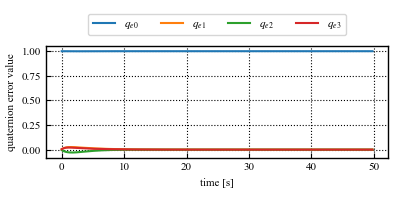
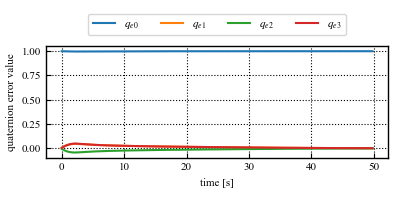
UPDATE: increase th_e from 3 to 9

diff --git a/td3/train.py b/td3/train.py
@@ -21,7 +21,7 @@ def train():
         "batch_size": 128,
         "critic_lr": 1e-3,
         "actor_lr": 1e-4,
-        "max_episodes": 10000,
+        "max_episodes": 5000,
         "max_steps": 700,
         "gamma": 0.99,
         "tau" : 1e-3,
@@ -30,7 +30,7 @@ def train():
         "policy_freq": 2,
         "noise_clip": 0.5,
         "prioritized_on": False,
-        "State": 'angle:4, ang_rate:4, ang_vel:3',}
+        "State": 'angle:4, ang_rate:4, ang_vel:3, th_e:9',}
     )
     config = wandb.config
 
@@ -103,6 +103,7 @@ def evaluate():
     q = np.empty((0,4))
     w = np.empty((0,3))
     actions = np.empty((0,3))
+    r_hist = np.empty((0,4))
     k_hist = []
     alpha_hist = []
     d_hist = np.empty((0,9))
@@ -139,7 +140,8 @@ def evaluate():
 
             dth = np.linalg.inv(D) @ Y.T @ x2
             th_e += env.dt*dth
-            env.est_th = ([th_e[0],th_e[4],th_e[8]]/np.diag(env.inertia) -1)/(env.max_multi-1)
+            # env.est_th = ([th_e[0],th_e[4],th_e[8]]/np.diag(env.inertia) -1)/(env.max_multi-1)
+            env.est_th = th_e.flatten()/25
             next_error_state, reward, done, next_state, _ = env.step(input)
             # if i == 20/dt:
             #     env.inertia = env.inertia_comb
@@ -154,6 +156,7 @@ def evaluate():
             actions = np.append(actions, input.reshape(1,-1),axis=0)
             k_hist.append(k)
             alpha_hist.append(alpha)
+            r_hist = np.append(r_hist, np.array([env.r1,env.r2,env.r3,env.r4]).reshape(1,-1),axis=0)
             d_hist = np.append(d_hist, np.array(d_tmp).reshape(1,-1),axis=0)
             state = next_error_state
 
@@ -182,32 +185,32 @@ def evaluate():
     yoko = 4.0
     #------------------------------------------------
 
-    plt.figure(figsize=(yoko,tate),dpi=100)
-    plt.plot(np.arange(max_steps)*dt, q[:,0],label =r"$q_{0}$")
-    plt.plot(np.arange(max_steps)*dt, q[:,1],label =r"$q_{1}$")
-    plt.plot(np.arange(max_steps)*dt, q[:,2],label =r"$q_{2}$")
-    plt.plot(np.arange(max_steps)*dt, q[:,3],label =r"$q_{3}$")
-    # plt.title('Quaternion')
-    plt.ylabel('quaternion value')
-    plt.xlabel(r'time [s]')
-    plt.legend(loc="lower center", bbox_to_anchor=(0.5,1.05), ncol=4)
-    plt.tight_layout()
-    plt.grid(True, color='k', linestyle='dotted', linewidth=0.8)
-    # plt.grid(True)
-    plt.savefig(curr_dir + "/results/td3_eval/plot_quat.png")
+    # plt.figure(figsize=(yoko,tate),dpi=100)
+    # plt.plot(np.arange(max_steps)*dt, q[:,0],label =r"$q_{0}$")
+    # plt.plot(np.arange(max_steps)*dt, q[:,1],label =r"$q_{1}$")
+    # plt.plot(np.arange(max_steps)*dt, q[:,2],label =r"$q_{2}$")
+    # plt.plot(np.arange(max_steps)*dt, q[:,3],label =r"$q_{3}$")
+    # # plt.title('Quaternion')
+    # plt.ylabel('quaternion value')
+    # plt.xlabel(r'time [s]')
+    # plt.legend(loc="lower center", bbox_to_anchor=(0.5,1.05), ncol=4)
+    # plt.tight_layout()
+    # plt.grid(True, color='k', linestyle='dotted', linewidth=0.8)
+    # # plt.grid(True)
+    # plt.savefig(curr_dir + "/results/td3_eval/plot_quat.png")
 
-    plt.figure(figsize=(yoko,tate),dpi=100)
-    plt.plot(np.arange(max_steps)*dt, qe[:,0],label =r"$q_{e0}$")
-    plt.plot(np.arange(max_steps)*dt, qe[:,1],label =r"$q_{e1}$")
-    plt.plot(np.arange(max_steps)*dt, qe[:,2],label =r"$q_{e2}$")
-    plt.plot(np.arange(max_steps)*dt, qe[:,3],label =r"$q_{e3}$")
-    # plt.title('Quaternion Error')
-    plt.ylabel('quaternion error value')
-    plt.xlabel(r'time [s]')
-    plt.legend(loc="lower center", bbox_to_anchor=(0.5,1.05), ncol=4)
-    plt.tight_layout()
-    plt.grid(True, color='k', linestyle='dotted', linewidth=0.8)
-    plt.savefig(curr_dir + "/results/td3_eval/plot_quate_error.png")
+    # plt.figure(figsize=(yoko,tate),dpi=100)
+    # plt.plot(np.arange(max_steps)*dt, qe[:,0],label =r"$q_{e0}$")
+    # plt.plot(np.arange(max_steps)*dt, qe[:,1],label =r"$q_{e1}$")
+    # plt.plot(np.arange(max_steps)*dt, qe[:,2],label =r"$q_{e2}$")
+    # plt.plot(np.arange(max_steps)*dt, qe[:,3],label =r"$q_{e3}$")
+    # # plt.title('Quaternion Error')
+    # plt.ylabel('quaternion error value')
+    # plt.xlabel(r'time [s]')
+    # plt.legend(loc="lower center", bbox_to_anchor=(0.5,1.05), ncol=4)
+    # plt.tight_layout()
+    # plt.grid(True, color='k', linestyle='dotted', linewidth=0.8)
+    # plt.savefig(curr_dir + "/results/td3_eval/plot_quate_error.png")
 
     plt.figure(figsize=(12,5),dpi=100)
     plt.tight_layout()
@@ -277,13 +280,13 @@ def evaluate():
     # # plt.figure(figsize=(yoko,tate),dpi=100)
     plt.subplot(236)
     plt.plot(np.arange(max_steps)*dt, d_hist[:,0],label = r"$D_{1}$")
-    plt.plot(np.arange(max_steps)*dt, d_hist[:,1],label = r"$D_{2}$")
-    plt.plot(np.arange(max_steps)*dt, d_hist[:,2],label = r"$D_{3}$")
-    plt.plot(np.arange(max_steps)*dt, d_hist[:,3],label = r"$D_{4}$")
+    # plt.plot(np.arange(max_steps)*dt, d_hist[:,1],label = r"$D_{2}$")
+    # plt.plot(np.arange(max_steps)*dt, d_hist[:,2],label = r"$D_{3}$")
+    # plt.plot(np.arange(max_steps)*dt, d_hist[:,3],label = r"$D_{4}$")
     plt.plot(np.arange(max_steps)*dt, d_hist[:,4],label = r"$D_{5}$")
-    plt.plot(np.arange(max_steps)*dt, d_hist[:,5],label = r"$D_{6}$")
-    plt.plot(np.arange(max_steps)*dt, d_hist[:,6],label = r"$D_{7}$")
-    plt.plot(np.arange(max_steps)*dt, d_hist[:,7],label = r"$D_{8}$")
+    # plt.plot(np.arange(max_steps)*dt, d_hist[:,5],label = r"$D_{6}$")
+    # plt.plot(np.arange(max_steps)*dt, d_hist[:,6],label = r"$D_{7}$")
+    # plt.plot(np.arange(max_steps)*dt, d_hist[:,7],label = r"$D_{8}$")
     plt.plot(np.arange(max_steps)*dt, d_hist[:,8],label = r"$D_{9}$")
     # plt.title('Action')
     plt.ylabel('d')
@@ -294,6 +297,22 @@ def evaluate():
     plt.grid(True, color='k', linestyle='dotted', linewidth=0.8)
     # plt.savefig(curr_dir + "/results/td3_eval/plot_d.png")
     plt.savefig(curr_dir + "/results/td3_eval/results.png")
+
+    plt.figure(figsize=(yoko,tate),dpi=100)
+    plt.plot(np.arange(max_steps)*dt, r_hist[:,0],label = r"$q$ pnlty")
+    plt.plot(np.arange(max_steps)*dt, r_hist[:,1],label = r"$\omega$ pnlty")
+    plt.plot(np.arange(max_steps)*dt, r_hist[:,2],label = r"$\tau$ pnlty")
+    plt.plot(np.arange(max_steps)*dt, r_hist[:,3],label = r"$\Delta\tau$ pnlty")
+    plt.plot(np.arange(max_steps)*dt, np.sum(r_hist,axis = 1),label = r"$toal$",linestyle='dotted')
+    # plt.title('Action')
+    plt.ylabel('reward')
+    plt.xlabel(r'time [s]')
+    plt.tight_layout()
+    plt.legend()
+    # plt.ylim(-20, 20)
+    plt.grid(True, color='k', linestyle='dotted', linewidth=0.8)
+    plt.savefig(curr_dir + "/results/td3_eval/plot_reward.png")
+
     plt.show()
     # # -------------------------結果プロット終わり--------------------------------
 def env_pd():

diff --git a/td3/environment.py b/td3/environment.py
@@ -132,7 +132,7 @@ class SatelliteContinuousEnv(gym.Env):
                                 [0.0, 0.0, 1.897]])
         self.max_multi = 10
         self.multi = np.random.randint(100,self.max_multi*100)/100
-        self.est_th = np.diag(self.inertia)
+        self.est_th = self.inertia.flatten()*self.multi/25#np.diag(self.inertia)
         self.tg_inertia = self.inertia*self.multi
         self.inertia_comb = self.inertia + self.tg_inertia
         self.inertia_comb_inv = np.linalg.inv(self.inertia_comb)
@@ -146,10 +146,10 @@ class SatelliteContinuousEnv(gym.Env):
         self.omega_count = 0
         
         #報酬パラメータ
-        self.q_weight =  1*20#1*20
+        self.q_weight = 1*5#1*20
         self.w_weight = 1.5*10#1.5*100
-        self.action_weight = 0.25*3#0.25*10
-        self.action_rate_weight = 4
+        self.action_weight = 0.25#0.25*10
+        self.action_rate_weight = 0.1
         
         # 初期状態 角度(deg)　角速度(rad/s)
         # Rest to Rest
@@ -197,21 +197,16 @@ class SatelliteContinuousEnv(gym.Env):
         self.max_action = 1
         self.lower_action = -1
         upper_bound = self.max_action*np.ones(11,dtype=np.float32)
-        # upper_bound = np.array([self.max_action, self.max_action, self.max_action,self.max_action],dtype=np.float32)
-        # upper_bound = np.array([np.finfo(np.float32).max, np.finfo(np.float32).max, np.finfo(np.float32).max, np.finfo(np.float32).max],dtype=np.float32)
-        # lower_bound = np.array([self.lower_action, self.lower_action, self.lower_action,self.lower_action],dtype=np.float32)
         lower_bound = -self.max_action*np.ones(11,dtype=np.float32)
         #------------------------------------------------------------------------------------------------------------
 
         # 状態量（姿勢角４・姿勢角微分４・角速度３・推定慣性モーメントの対角成分 ３）
-        high = np.ones(14,dtype = np.float32)*np.finfo(np.float32).max
+        high = np.ones(20,dtype = np.float32)*np.finfo(np.float32).max
 
         self.action_space = spaces.Box(lower_bound, upper_bound)
         self.observation_space = spaces.Box(-high, high)
         self.pre_state = np.hstack((self.startQuate,self.startOmega))
         self.state = np.hstack((self.errorQuate,self.d_errorQuate, self.startOmega, self.est_th))
-        # self.pre_state = [self.startQuate,self.startOmega]
-        # self.state = [self.errorQuate,self.d_errorQuate, self.startOmega]
 
         self.seed()
         self.viewer = None
@@ -230,11 +225,7 @@ class SatelliteContinuousEnv(gym.Env):
         state = self.state
         qe = state[:4]
 
-        #ステートアップデート（オイラー法）
-        # q_dot = self.quaternion_differential(omega, q)
-        # omega_dot = self.omega_differential(omega,self.inertia_inv,action)
-        # q = q + q_dot * self.dt
-        # omega = omega + omself.steps_beyond_done = Noneferential(omega,self.inertia_comb_inv,self.inertia_comb,action)
+        #ルンゲクッタ
         k1 = self.omega_differential(omega,self.inertia_comb_inv,self.inertia_comb,action)
         k2 = self.omega_differential(omega + 0.5*self.dt*k1, self.inertia_comb_inv,self.inertia_comb,action)
         k3 = self.omega_differential(omega + 0.5*self.dt*k2, self.inertia_comb_inv,self.inertia_comb,action)
@@ -279,31 +270,38 @@ class SatelliteContinuousEnv(gym.Env):
 
         # 報酬関数
         #--------REWARD---------
+        #入力の変化量計算
+        action_delta = self.pre_action - action
         if not done:
-            action_delta = self.pre_action - action
             #状態と入力を抑えたい
-            reward = -(self.q_weight*((1-qe_new[0])**2 + qe_new[1:]@qe_new[1:]) + self.w_weight*omega_new@omega_new + self.action_weight*action@action + self.action_rate_weight*action_delta@action_delta) 
-            self.pre_action = action
-            # if max(abs(action)) > self.max_torque:
-            #     reward += -10
+            self.r1 = self.q_weight*((1-qe_new[0])**2+ qe_new[1:]@qe_new[1:])
+            self.r2 = self.w_weight*omega_new@omega_new
+            self.r3 = self.action_weight*action@action
+            self.r4 = self.action_rate_weight*(action_delta@action_delta)/self.dt
+            reward = -(self.r1 + self.r2 + self.r3 + self.r4) 
 
         elif self.steps_beyond_done is None:
             # epsiode just ended
             self.steps_beyond_done = 0
             if bool(done_1):
+                self.r1 = 0
+                self.r2 = 0
+                self.r3 = 0
+                self.r4 = 0
                 reward = -1
             else:
-            #     if qe_new[0] >= self.angle_thre:
-            #         reward = 30
-            #     else:
-                reward = 0
+                self.r1 = self.q_weight*((1-qe_new[0])**2+ qe_new[1:]@qe_new[1:])
+                self.r2 = self.w_weight*omega_new@omega_new
+                self.r3 = self.action_weight*action@action
+                self.r4 = self.action_rate_weight*(action_delta@action_delta)/self.dt
+                reward = -(self.r1 + self.r2 + self.r3 + self.r4) 
         #------------------------
-
         else:
             if self.steps_beyond_done == 0:
                 logger.warn("You are calling 'step()' even though this environment has already returned done = True. You should always call 'reset()' once you receive 'done = True' -- any further steps are undefined behavior.")
             self.steps_beyond_done += 1
             reward = 0.0
+        self.pre_action = action
 
         return self.state, reward, done, self.pre_state, {}
 
@@ -315,7 +313,8 @@ class SatelliteContinuousEnv(gym.Env):
                                 [0.0, 0.0, 1.897]])
         self.multi = np.random.randint(100,self.max_multi*100)/100
         self.tg_inertia = self.inertia*self.multi
-        self.est_th = ((self.multi-1)*np.diag(self.inertia))/((self.max_multi-1)*np.diag(self.inertia))
+        self.est_th = self.inertia.flatten()*self.multi/25#np.diag(self.inertia)
+        # self.est_th = (self.multi*np.diag(self.inertia))/((self.max_multi+1)*np.diag(self.inertia))
         self.inertia_comb = self.inertia + self.tg_inertia
         self.inertia_comb_inv = np.linalg.inv(self.inertia_comb)
         self.inertia_inv = np.linalg.inv(self.inertia)

diff --git a/td3/utils.py b/td3/utils.py
@@ -86,13 +86,10 @@ def mini_batch_train_adaptive(env, agent, max_episodes, max_steps, batch_size):
 
                 dth = np.linalg.inv(D) @ Y.T @ x2
                 th_e += env.dt*dth
-                env.est_th = ([th_e[0],th_e[4],th_e[8]]/np.diag(env.inertia) -1)/(env.max_multi-1)
+                env.est_th = th_e.flatten()/25
+                # env.est_th = ([th_e[0],th_e[4],th_e[8]])/((env.max_multi+1)*np.diag(env.inertia))
                 #---------------------------------------------------------------------
                 next_error_state, reward, done, next_state, _ = env.step(input)
-                # if done:
-                #     reward = -1/500*step + 1#1/np.sqrt(2*np.pi*500**2)*np.exp(-steps**2/(2*500**2))
-                # else:
-                #     reward = 0
                 agent.replay_buffer.push(state, action, reward, next_error_state, done)
                 episode_reward += reward
 
